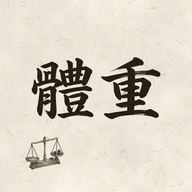
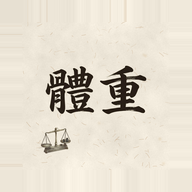
maskable 아이콘 재생성(원본 78% 축소 + 가장자리 늘리기), 서비스워커 캐시 v7

diff --git a/sw.js b/sw.js
@@ -1,4 +1,4 @@
-const CACHE="weight-note-v6";
+const CACHE="weight-note-v7";
 // index.html은 캐시 목록에 넣지 않는다 (Cloudflare가 /index.html을 리다이렉트하므로).
 // 루트 "/"만 앱 셸로 캐시한다.
 const ASSETS=["/","/manifest.webmanifest","/icon-192.png","/icon-512.png"];
